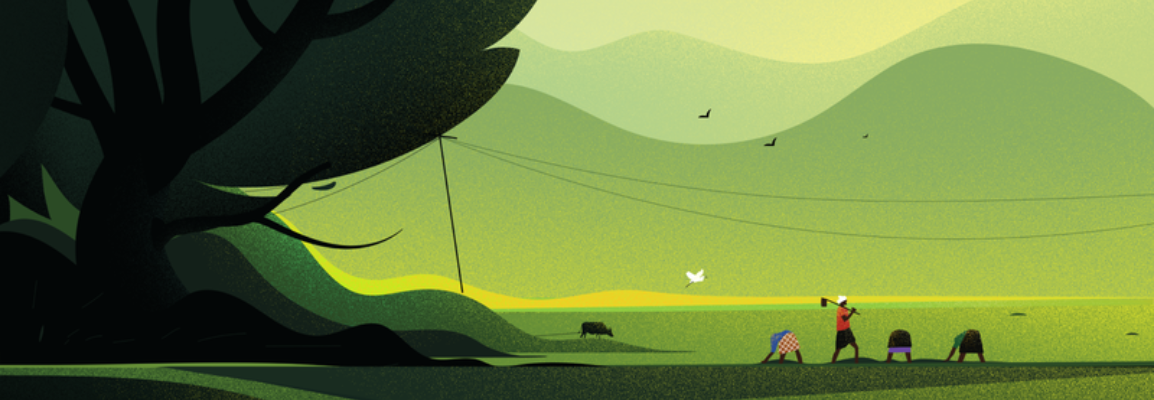
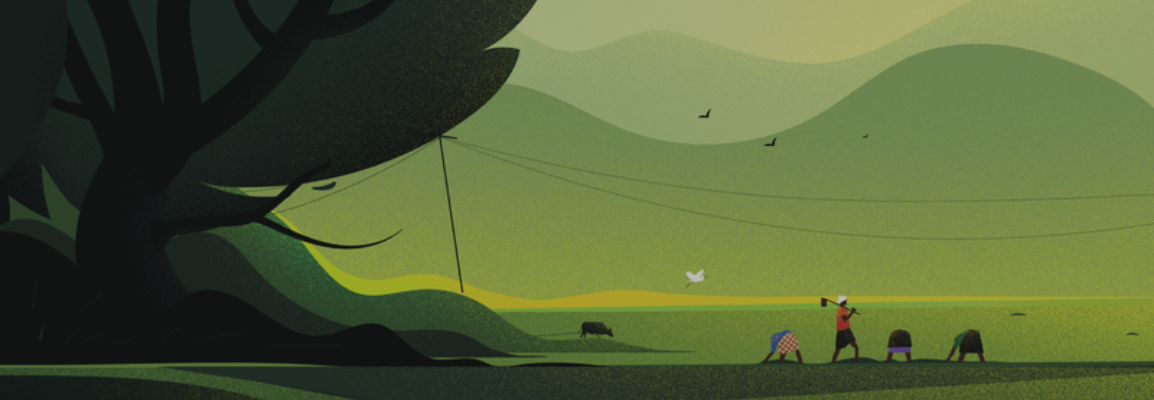
Dynamic Weather Images Fixes

diff --git a/weather_app/static/js/weather.js b/weather_app/static/js/weather.js
@@ -12,57 +12,73 @@ window.addEventListener('load', function () {
 
     var sunrise = document.getElementsByClassName("sunrise-icon");
     var sunrise_time = sunrise[0]['lastElementChild']['innerText'];
-    var sunrise_hour = sunrise_time.slice(0,2);
-    var sunrise_minute = sunrise_time.slice(3,5);
+    var sunrise_hour = parseInt(sunrise_time.slice(0,2));
+    var sunrise_minute = parseInt(sunrise_time.slice(3,5));
 
     var sunset = document.getElementsByClassName("sunset-icon");
     var sunset_time = sunset[0]['lastElementChild']['innerText'];
-    var sunset_hour = sunset_time.slice(0,2);
-    var sunset_minute = sunset_time.slice(3,5);
+    var sunset_hour = parseInt(sunset_time.slice(0,2));
+    var sunset_hour = sunset_hour + 12;
 
+    var sunset_minute = parseInt(sunset_time.slice(3,5));
 
-    if (today.getHours() >= 18 || today.getHours < sunrise_hour) {
+    // Sunrise Hour
+    if (today.getHours() == sunrise_hour) {
+        document.getElementById('current_weather_box').style.backgroundImage="url(static/css/img/Background/sunrise_background.png)";
+        console.log('Sunrise');
+    }
+
+    // Sunset Hour
+    if (today.getHours() == sunset_hour) {
+        document.getElementById('current_weather_box').style.backgroundImage="url(static/css/img/Background/sunset_background.png)";
+        console.log('Sunset');
+    }
+
+    // If the Current Time is Between Sunrise Time and Sunset Time
+    if (today.getHours() > sunrise_hour && today.getHours() < sunset_hour) {
         if (condition_text.toLowerCase().includes("rain") || condition_text.toLowerCase().includes("drizzle")) {
-            document.getElementById('current_weather_box').style.backgroundImage="url(static/css/img/Background/night_rain_background.gif)";
+            document.getElementById('current_weather_box').style.backgroundImage="url(static/css/img/Background/day_rain_background.png)";
+            console.log('Day Rain');
         }
         else if (condition_text.toLowerCase().includes("thunder")) {
             document.getElementById('current_weather_box').style.backgroundImage="url(static/css/img/Background/thunder_background.png)";
+            console.log('Thunder');
+        }
+         else if (condition_text.toLowerCase().includes("snow") || condition_text.toLowerCase().includes("sleet") || condition_text.toLowerCase().includes("blizzard")) {
+            document.getElementById('current_weather_box').style.backgroundImage="url(static/css/img/Background/day_snow_background.png)";
+            console.log('Day Snow');
+        }
+        else {
+            document.getElementById('current_weather_box').style.backgroundImage="url(static/css/img/Background/day_background.png)";
+            console.log('Day Time');
+        }
+    }
+
+    // If the Current Time is Past Sunset or Before Sunrise
+    if (today.getHours() > sunset_hour || today.getHours() < sunrise_hour) {
+        if (condition_text.toLowerCase().includes("rain") || condition_text.toLowerCase().includes("drizzle")) {
+            document.getElementById('current_weather_box').style.backgroundImage="url(static/css/img/Background/night_rain_background.gif)";
+            console.log('Night Rain');
+        }
+        else if (condition_text.toLowerCase().includes("thunder")) {
+            document.getElementById('current_weather_box').style.backgroundImage="url(static/css/img/Background/thunder_background.png)";
+            console.log('Thunder');
         }
         else if (condition_text.toLowerCase().includes("snow") || condition_text.toLowerCase().includes("sleet") || condition_text.toLowerCase().includes("blizzard")) {
             document.getElementById('current_weather_box').style.backgroundImage="url(static/css/img/Background/night_snow_background.png)";
+            console.log('Night Snow');
         }
         else {
             document.getElementById('current_weather_box').style.backgroundImage="url(static/css/img/Background/night_background.jpg)";
+            console.log('Night');
         }
     }
 
-    if (today.getHours() == sunrise_hour && today.getMinutes() <= sunrise_minute) {
-        document.getElementById('current_weather_box').style.backgroundImage="url(static/css/img/Background/sunrise_background.png)";
-    }
-
-    // If the Current Time is Past Sunrise
-    else if (today.getHours() >= sunrise_hour && today.getMinutes > sunrise_minute) {
-
-        if (today.getHours() < sunset_hour) {
-            if (condition_text.toLowerCase().includes("rain") || condition_text.toLowerCase().includes("drizzle")) {
-                document.getElementById('current_weather_box').style.backgroundImage="url(static/css/img/Background/day_rain_background.png)";
-            }
-             else if (condition_text.toLowerCase().includes("thunder")) {
-                document.getElementById('current_weather_box').style.backgroundImage="url(static/css/img/Background/thunder_background.png)";
-            }
-            else if (condition_text.toLowerCase().includes("snow") || condition_text.toLowerCase().includes("sleet") || condition_text.toLowerCase().includes("blizzard")) {
-                document.getElementById('current_weather_box').style.backgroundImage="url(static/css/img/Background/day_snow_background.png)";
-            }
-            else {
-                document.getElementById('current_weather_box').style.backgroundImage="url(static/css/img/Background/day_background.jpg)";
-            }
-        }
-    }
-
+    // DEBUGGING PURPOSES
     console.log("Condition: " + condition_text);
     console.log(window.getComputedStyle(bg_img).backgroundImage);
     console.log("Hour: " + today.getHours());
-    console.log(sunrise_hour + ':' + sunrise_minute);
-    console.log(sunset_hour + ':' + sunset_minute);
+    console.log("Sunrise Time: " + sunrise_hour + ':' + sunrise_minute);
+    console.log("Sunset Time: " + sunset_hour + ':' + sunset_minute);
 
     })

diff --git a/weather_app/static/css/styles.css b/weather_app/static/css/styles.css
@@ -281,7 +281,7 @@ div.current_weather {
 }
 
 #current_weather_box {
-    background-image: url('../img/Background/night_background.jpg');
+    background-image: url('../img/Background/day_background.png');
     height: 300px;
 }
 
